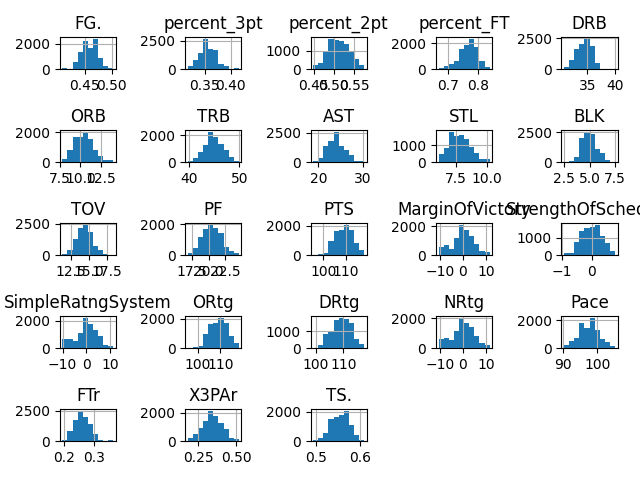
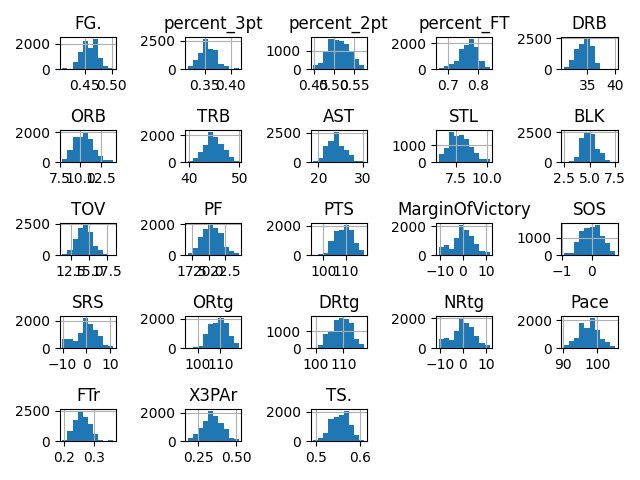
aesthetic changes to dataexplorationPlots

Changed region(s): [[0.0, 0.5938, 0.2812, 0.6562], [0.7812, 0.4062, 1.0, 0.4688]]

diff --git a/masterScript_testRun/dataCleaning.py b/masterScript_testRun/dataCleaning.py
@@ -41,7 +41,7 @@ gamedat['team_name_away'] = gamedat['team_name_away'].replace(to_replace="LA Cli
 gamedat_cleaned = gamedat[['season_id', 'team_id_home', 'team_abbreviation_home', 'team_name_home', 'game_id', 'game_date', 'matchup_home', 'wl_home', 'team_id_away', 'team_abbreviation_away', 'team_name_away', 'game_yearEnd']].rename(columns={'team_name_home': 'Team'})
 
 # Renaming columns
-teamdat_cleaned = teamdat[['Team', 'FG.', 'X3P.', 'X2P.', 'FT.', 'DRB', 'ORB', 'TRB', 'AST', 'STL', 'BLK', 'TOV', 'PF', 'PTS', 'MOV', 'SOS', 'SRS', 'ORtg', 'DRtg', 'NRtg', 'Pace', 'FTr', 'X3PAr', 'TS.', 'yearEnd.y']].rename(columns={'yearEnd.y': 'game_yearEnd','X3P.': 'percent_3pt','X2P.': 'percent_2pt','FT.': 'percent_FT', 'MOV': 'MarginOfVictory','SOS': 'StrengthOfSchedule', 'SRS': 'SimpleRatngSystem'})
+teamdat_cleaned = teamdat[['Team', 'FG.', 'X3P.', 'X2P.', 'FT.', 'DRB', 'ORB', 'TRB', 'AST', 'STL', 'BLK', 'TOV', 'PF', 'PTS', 'MOV', 'SOS', 'SRS', 'ORtg', 'DRtg', 'NRtg', 'Pace', 'FTr', 'X3PAr', 'TS.', 'yearEnd.y']].rename(columns={'yearEnd.y': 'game_yearEnd','X3P.': 'percent_3pt','X2P.': 'percent_2pt','FT.': 'percent_FT', 'MOV': 'MarginOfVictory'})#,'SOS': 'StrengthOfSchedule', 'SRS': 'SimpleRatngSystem'})
 
 # Left merging dataframes to create a master data frame
 merged_df = pd.merge(gamedat_cleaned, teamdat_cleaned, on=['game_yearEnd', 'Team'], how='left')
@@ -73,18 +73,19 @@ plt.pie(wl_home_count_list,
         colors = sliceColors, 
         startangle=90,
         autopct='%.2f%%', 
+        textprops={'fontsize': 16},
         wedgeprops = {"edgecolor" : "black",
                       'linewidth': 1,
                       'antialiased': True})
 plt.title("Win/Loss Home Distribution")
 plt.tight_layout()
 plt.savefig(f"./dataExplorationPlots/wl_home_piechart.png")
-# plt.show()
+#plt.show()
 
 # histograms
 merged_df.iloc[:, 12:].hist()
 plt.tight_layout()
-# plt.show()
+#plt.show()
 plt.savefig(f"./dataExplorationPlots/featuresHistogram.png")
 
 # The pie chart produced above shows us the home team wins ~57% of the time, meaning we will need to stratify our data when performing cross validation, to avoid an imbalanced training/testing split.
@@ -96,4 +97,4 @@ merged_df['wl_home'] = merged_df['wl_home'].map({'W': 1, 'L': 0})
 print("There are", merged_df.isnull().sum().sum(), "missing values in the merged dataset.") 
 
 # Writing to csv
-merged_df.to_csv('merged_df.csv', index=False)
+#merged_df.to_csv('merged_df.csv', index=False)
